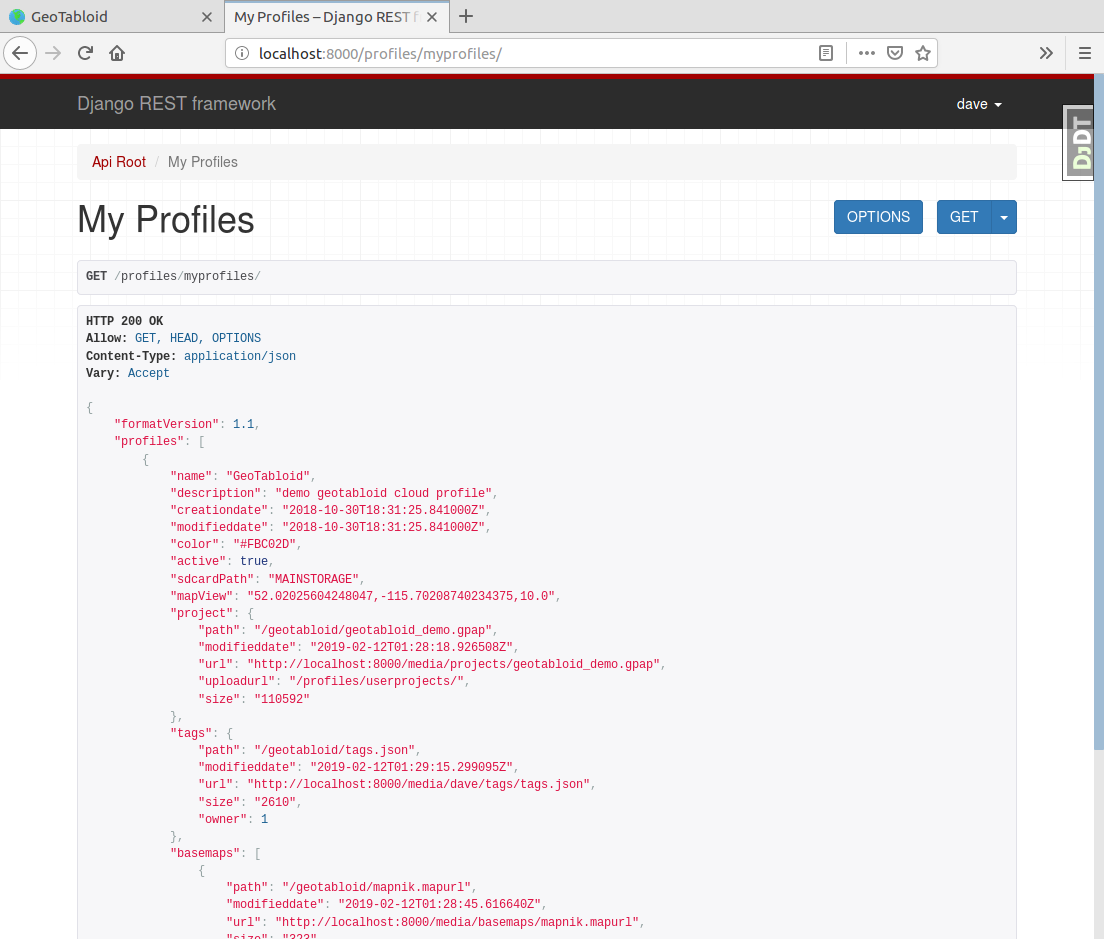
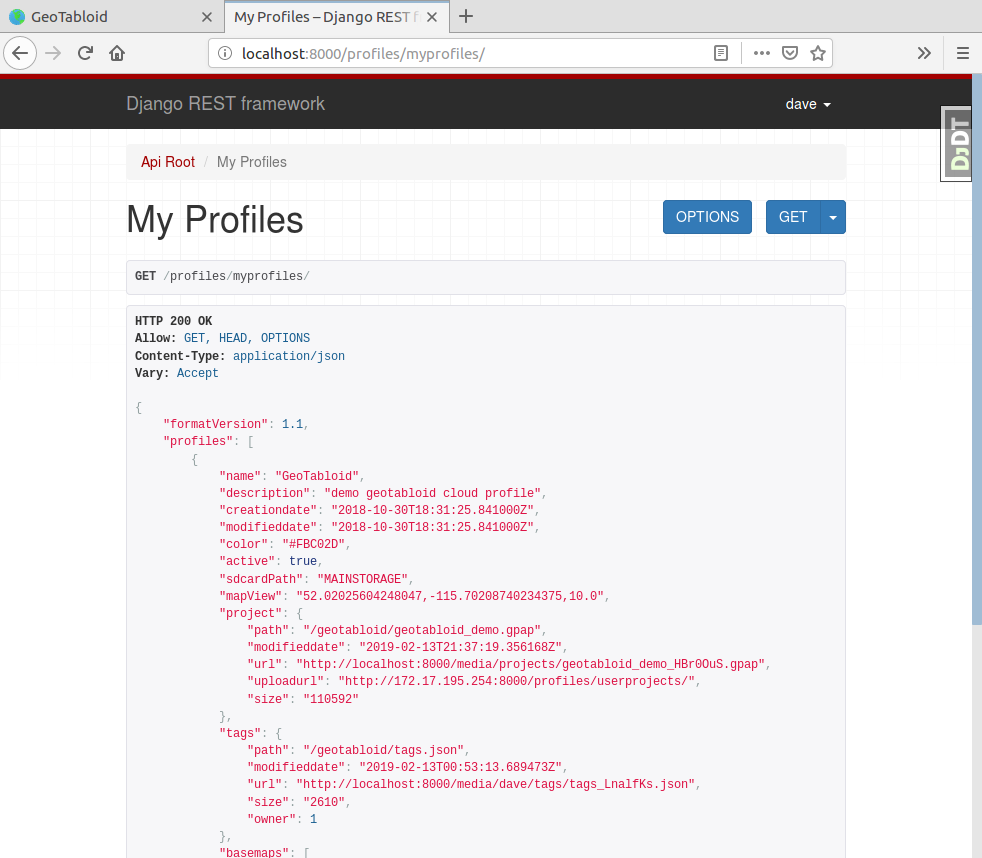
doc edits

diff --git a/README.rst b/README.rst
@@ -147,7 +147,7 @@ Copy the confirmation link into your browser address bar and you should get a co
 Load the demo data
 ------------------
 
-Now load the demo data files, which are in the profiles/fixtures folder.  There are shell scripts there to use either Httpie or cUrl, you only need to execute one ot these. but before you begin, edit the file and replace user:password with the username and password you supplied for the superuser.
+Now load the demo data files, which are in the profiles/fixtures folder.  There are shell scripts there to use either Httpie_ or cUrl_, you only need to execute one of these. but before you begin, edit the file and replace user:password with the username and password you supplied for the superuser.
 Execute this command from the fixtures folder.
 
 ::
@@ -175,7 +175,7 @@ If you look at the Uploadurl field, you will see that this is not a valid url.  
 
 .. image:: ./img/fixed_project.png
 
-In this case, the IP address for my laptop is 172.17.195.254.  Yours will likely be different, on Linux, use ifconfig to find the value.  On Windows the command is ipconfig.
+Click the Save button to update the database.  In this case, the IP address for my laptop is 172.17.195.254.  Yours will likely be different, on Linux, use ifconfig to find the value.  On Windows the command is ipconfig.
 
 Now, open your browser and point it to http://localhost:8000/profiles/myprofiles/
 You should see a page like this:
